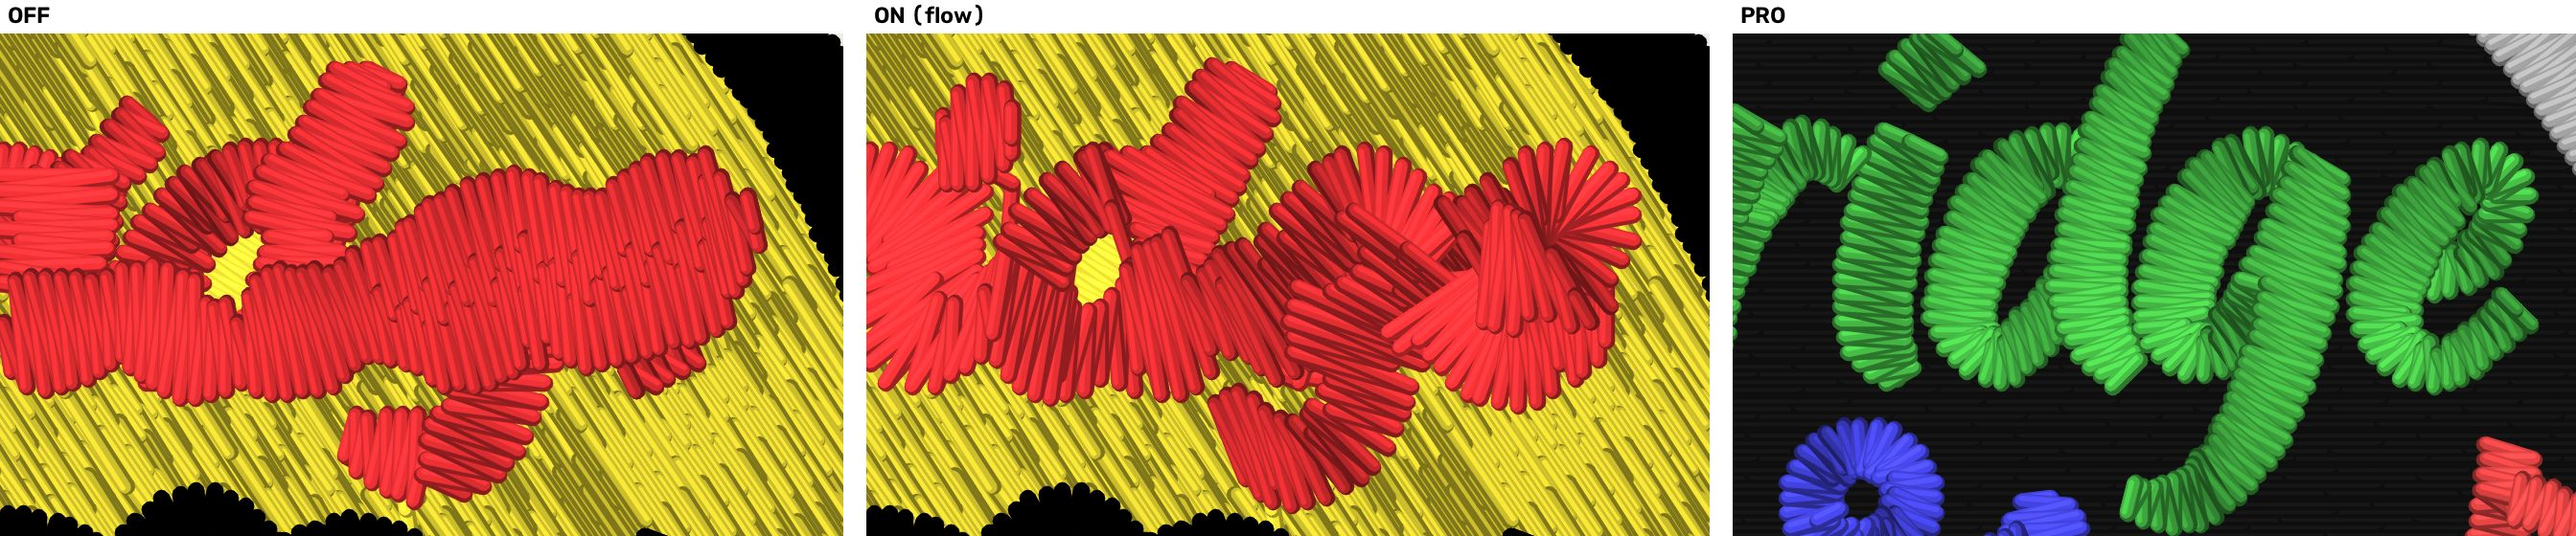
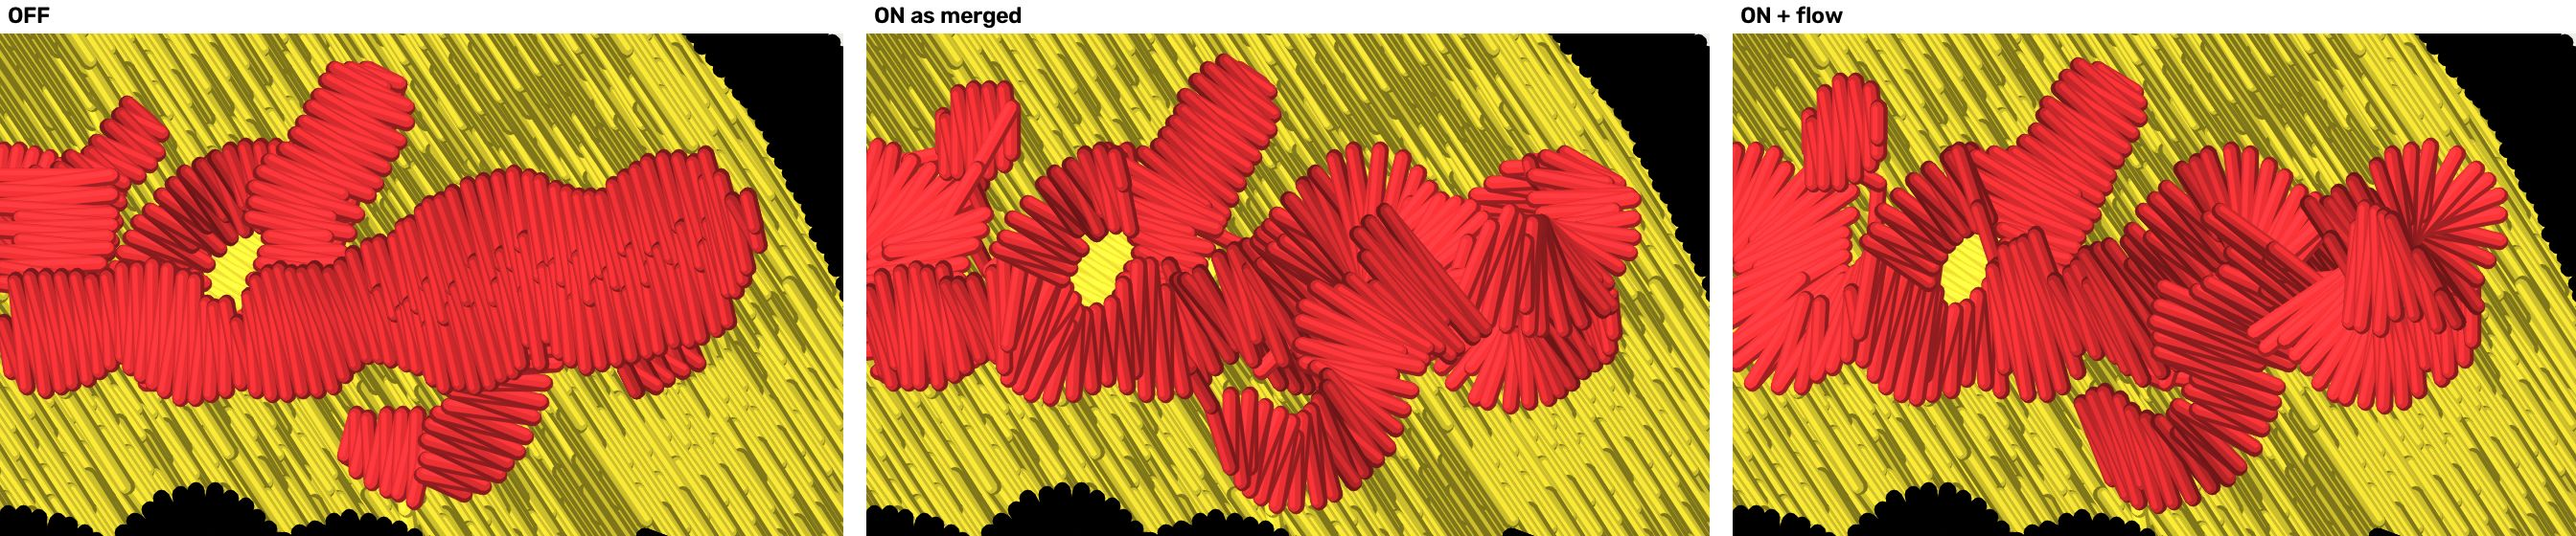
script_strokes renders: ours only (OFF / ON as merged / ON + flow), no panel of the pro's stitch file
The repo is public and no render of a third-party stitch file is
committed: the angle and 40 px/mm sheets lose their pro panel, and
#1119's four *_off_on_pro.jpg (already on main) become *_off_on.jpg,
OFF | ON. The pro's numbers stay in the READMEs. Earlier commits on this
branch and #1119's squash on main still hold the old images in history.

diff --git a/docs/renders/script-strokes-2026-10-26/README.md b/docs/renders/script-strokes-2026-10-26/README.md
@@ -4,15 +4,19 @@ Kent's ruling, 2026-10-26: "Measure, then build OFF (Recommended)". A script
 word sewn one satin column per pen stroke, crosses square to the stroke, the
 pen path read on the artwork's own ink. Engine `bde0f145` (this branch merged
 with main), each job built once and planned OFF and ON from the same
-generation; the pro's file beside it, each drawn in its own frame (crop by mm
-from each design's own top-left; the pro's DST has no colours).
+generation; the pro's file read beside it for the numbers below.
+
+The pictures are OURS only, OFF | ON: the repo is public, and no render of
+the pro's stitch file is committed. Re-rendered 2026-10-27 (#1135) without
+the pro's panel they first carried, on engine `d7eaeb33` with #1119's module
+swapped in for ON, so they can differ in detail from the numbers' engine.
 
 | file | job | crop |
 |---|---|---|
-| `bridge_hat_off_on_pro.jpg` | Bridge hat, 63.3 mm | 25 px/mm |
-| `bridge_lc_off_on_pro.jpg` | Bridge LC, 76.6 mm | 22 px/mm |
-| `tires_off_on_pro.jpg` | Tires hat, 114.3 mm ("ires" and the T's stem) | 12 px/mm, ours drawn grey |
-| `machine_hat_off_on_pro.jpg` | To a T Machine hat, 89.5 mm | 20 px/mm, ours drawn grey |
+| `bridge_hat_off_on.jpg` | Bridge hat, 63.3 mm | 25 px/mm |
+| `bridge_lc_off_on.jpg` | Bridge LC, 76.6 mm | 22 px/mm |
+| `tires_off_on.jpg` | Tires hat, 114.3 mm ("ires" and the T's stem) | 12 px/mm, drawn grey |
+| `machine_hat_off_on.jpg` | To a T Machine hat, 89.5 mm | 12 px/mm, drawn grey |
 
 ## The word, one reader for all three files (`tools/script_census.py`, the word's colour block)
 

diff --git a/docs/renders/script-flow-2026-10-26/README.md b/docs/renders/script-flow-2026-10-26/README.md
@@ -5,7 +5,9 @@ centerline letter path) was drawn by a pencil or hand". This builds on
 `script_strokes` as #1119 merged it (built OFF), before its flip, so the flip
 carries it. Engine `d7eaeb33` (this branch); each job built once, planned
 OFF, ON as #1119 merged (its module swapped in, same generation) and ON with
-the flow; the pro's file beside it.
+the flow; the pro's file read beside it for the numbers. The pictures are
+OURS only: the repo is public, and no render of the pro's stitch file is
+committed.
 
 ## What changed
 
@@ -74,8 +76,8 @@ Whole design (stitches / trims): Bridge hat 9,608 / 30 OFF -> 9,555 / 30 as #111
 
 | file | what |
 |---|---|
-| `angle_*.jpg` | every satin cross coloured by its direction (hue = angle mod 180): OFF, ON as #1119 merged, ON + flow, pro. A pen's satin changes colour smoothly; a jump in colour is a jump in the crosses |
-| `crops40_*.jpg` | OFF, ON + flow, pro at 40 px/mm, crosses visible (Tires and To a T drawn grey) |
+| `angle_*.jpg` | every satin cross coloured by its direction (hue = angle mod 180): OFF, ON as #1119 merged, ON + flow. A pen's satin changes colour smoothly; a jump in colour is a jump in the crosses |
+| `crops40_*.jpg` | OFF, ON as #1119 merged, ON + flow at 40 px/mm, crosses visible (Tires and To a T drawn grey) |
 
 ## What it does not do
 
